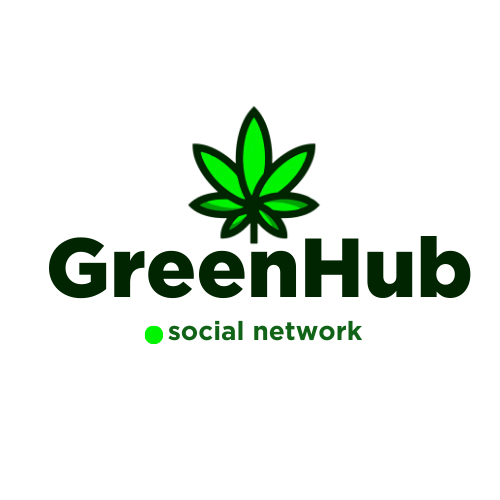
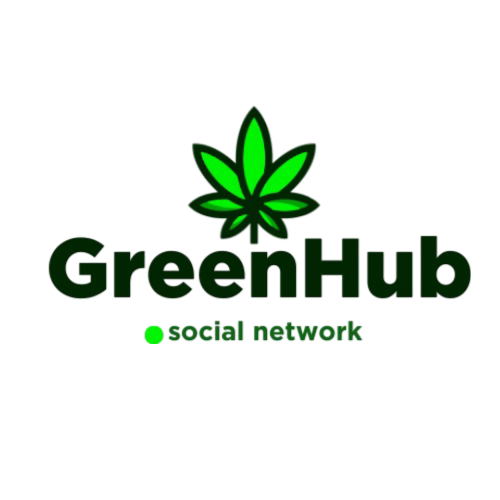
finish inital basic layout of login

diff --git a/src/app/components/default-layout-login/default-layout-login.component.scss b/src/app/components/default-layout-login/default-layout-login.component.scss
@@ -1,0 +1,57 @@
+@import '../../../styles/variables';
+main{
+    height: 100%;
+    display: flex;
+    flex-direction: row;
+    justify-content: center;
+    align-items: center;
+    font-family: 'SF-pro';
+    section{
+        height: 100%;
+        display: flex;
+        flex-direction: column;
+        justify-content: center;
+        align-items: center;
+    }
+        .art-section{
+            flex-grow: 1;
+        }
+        .form-section{
+            flex-grow: 0.2;
+            padding: 0 250px;
+            gap: 15px;
+            text-align: center;
+            img{
+                width: 250px;
+            }
+            h1{
+                font-size: 34px;
+                font-weight: 700;
+                margin-bottom: 30px;
+            }
+            h2{
+                font-size: 20px;
+                font-weight: 500;
+                margin-bottom: 45px;
+            }
+            button {
+                width: 80%;
+                height: 54px;
+                border-radius: 12px;
+                font-size: 22px;
+                font-weight: 500;
+                border: none;
+
+                &.primaryBtn{
+                    background-color: $secondary-text;
+                    color: white;
+                }
+                &.secondaryBtn{
+                    background-color: transparent;
+                    border: 4px solid $link-color;
+                    color: $link-color;
+                    font-weight: 600;
+                }
+            }
+        }
+}

diff --git a/src/app/components/default-layout-login/default-layout-login.component.html b/src/app/components/default-layout-login/default-layout-login.component.html
@@ -1,13 +1,14 @@
 <main>
-    <section>
-        <span><img src="/assets/imgs/png/GreenHub.png" alt=""></span>
-        <h1></h1>
-        <h2></h2>
-        <a href=""></a>
-        <button></button>
-        <button></button>
+    <section class="form-section">
+        <span><img src="/assets/imgs/png/GreenHub2.png" alt=""></span>
+        <h1>{{ title }}</h1>
+        <h2>Today is a new day. It's your vibe. You grow it.
+            Sign in to start connecting with the community and sharing your journey. 🌱</h2>
+        <!-- <a href="">Forgot password?</a> -->
+        <button class="primaryBtn">{{ primaryBtnText }}</button>
+        <button class="secondaryBtn">{{ secondaryBtnText}}</button>
     </section>
-    <section>
+    <section class="art-section">
         <img src="/assets/imgs/svg/Login Art.svg" alt="">
     </section>
 </main>

diff --git a/src/app/components/default-layout-login/default-layout-login.component.ts b/src/app/components/default-layout-login/default-layout-login.component.ts
@@ -1,4 +1,4 @@
-import { Component } from '@angular/core';
+import { Component, Input } from '@angular/core';
 
 @Component({
   selector: 'app-default-layout-login',
@@ -8,5 +8,8 @@ import { Component } from '@angular/core';
   styleUrl: './default-layout-login.component.scss'
 })
 export class DefaultLayoutLoginComponent {
+  @Input() title: string = "";
+  @Input() primaryBtnText: string = "";
+  @Input() secondaryBtnText: string = "";
 
 }

diff --git a/src/app/pages/login/login.component.html b/src/app/pages/login/login.component.html
@@ -1,1 +1,5 @@
-<app-default-layout-login></app-default-layout-login>
+<app-default-layout-login
+    title="Welcome Back to Login  💚 "
+    primaryBtnText="Login"
+    secondaryBtnText="Sign Up"
+></app-default-layout-login>

diff --git a/src/styles.scss b/src/styles.scss
@@ -13,3 +13,8 @@
     src: url(assets/fonts/sf-pro/SF-Pro-Rounded-Bold.otf);
     font-weight: 700;
 }
+*{
+    margin: 0;
+    padding:0;
+    box-sizing: border-box;
+}

diff --git a/src/styles/variables.scss b/src/styles/variables.scss
@@ -1,0 +1,3 @@
+$primary-text: #001C00;
+$secondary-text:#223E21;
+$link-color:#427A35;
